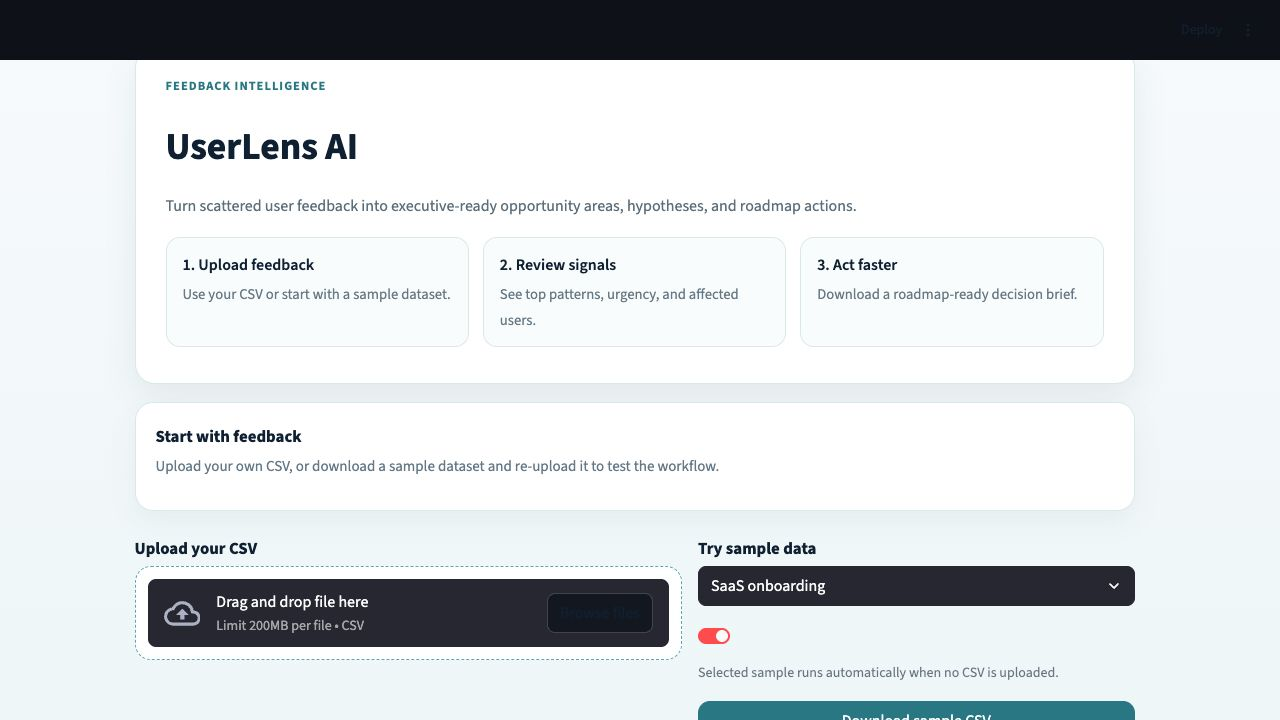
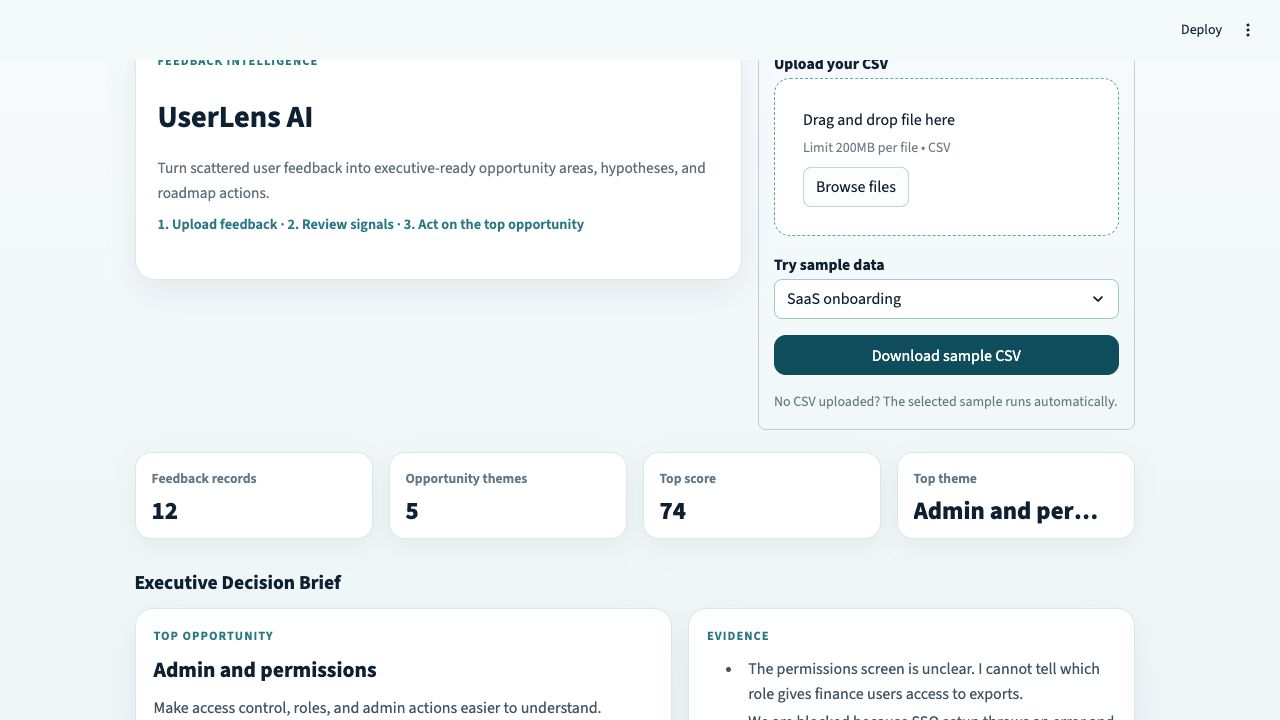
Improve dashboard accessibility and control contrast

diff --git a/app.py b/app.py
@@ -32,7 +32,7 @@ st.markdown(
         color: #102033;
     }
     .block-container {
-        padding-top: 2rem;
+        padding-top: 1.2rem;
         padding-bottom: 3rem;
         max-width: 1160px;
     }
@@ -56,6 +56,47 @@ st.markdown(
         border-radius: 16px;
         padding: 12px;
     }
+    div[data-testid="stFileUploaderDropzone"] {
+        background: #ffffff !important;
+        border: 1.5px dashed #5aa6b1 !important;
+        border-radius: 14px !important;
+    }
+    div[data-testid="stFileUploaderDropzone"] button,
+    div.stButton > button,
+    div.stDownloadButton > button {
+        background: #0f4c5c !important;
+        border: 1px solid #0f4c5c !important;
+        color: #ffffff !important;
+        border-radius: 12px !important;
+        font-weight: 700 !important;
+    }
+    div[data-testid="stFileUploaderDropzone"] button:hover,
+    div.stButton > button:hover,
+    div.stDownloadButton > button:hover {
+        background: #093945;
+        border-color: #093945;
+        color: #ffffff;
+    }
+    div[data-testid="stFileUploaderDropzone"] button:focus,
+    div.stButton > button:focus,
+    div.stDownloadButton > button:focus {
+        outline: 3px solid #8fd3dc;
+        outline-offset: 2px;
+        box-shadow: none;
+    }
+    div[data-testid="stFileUploaderDropzone"] small,
+    div[data-testid="stFileUploaderDropzone"] span,
+    div[data-testid="stFileUploaderDropzone"] p {
+        color: #102033 !important;
+    }
+    div[data-baseweb="select"] > div {
+        background: #ffffff !important;
+        border-color: #9ec9ce !important;
+        color: #102033 !important;
+    }
+    div[data-baseweb="select"] span {
+        color: #102033 !important;
+    }
     h1, h2, h3 {
         letter-spacing: 0;
         color: #102033;
@@ -64,9 +105,10 @@ st.markdown(
         background: #ffffff;
         border: 1px solid #dbe8ea;
         border-radius: 20px;
-        padding: 28px 30px;
+        padding: 16px 22px;
         box-shadow: 0 12px 30px rgba(15, 45, 61, 0.07);
-        margin-bottom: 22px;
+        margin-bottom: 10px;
+        min-height: 245px;
     }
     .eyebrow {
         color: #287782;
@@ -77,63 +119,56 @@ st.markdown(
         margin-bottom: 8px;
     }
     .hero h1 {
-        font-size: 2.35rem;
+        font-size: 1.9rem;
         line-height: 1.12;
-        margin: 0 0 10px;
+        margin: 0 0 6px;
     }
     .hero p {
         color: #5d6f7b;
-        font-size: 1rem;
+        font-size: 0.96rem;
         margin: 0;
         max-width: 720px;
     }
-    .action-strip {
-        display: grid;
-        grid-template-columns: repeat(3, minmax(0, 1fr));
-        gap: 14px;
-        margin: 18px 0 8px;
-    }
-    .action-card {
-        background: #f9fcfc;
-        border: 1px solid #dbe8ea;
-        border-radius: 14px;
-        padding: 14px 16px;
-    }
-    .action-card strong {
-        display: block;
-        color: #102033;
-        margin-bottom: 4px;
-    }
-    .action-card span {
-        color: #667985;
-        font-size: 0.92rem;
+    .mini-flow {
+        color: #287782;
+        font-size: 0.9rem;
+        font-weight: 650;
+        margin-top: 8px;
     }
     .input-panel {
         background: #ffffff;
         border: 1px solid #dbe8ea;
         border-radius: 18px;
-        padding: 20px;
-        margin: -4px 0 24px;
+        padding: 12px 14px;
+        margin: 0;
         box-shadow: 0 10px 26px rgba(15, 45, 61, 0.05);
     }
     .input-heading {
         color: #102033;
-        font-size: 1.05rem;
+        font-size: 0.98rem;
         font-weight: 750;
-        margin-bottom: 4px;
+        margin-bottom: 2px;
     }
     .input-subcopy {
         color: #637786;
-        font-size: 0.94rem;
-        margin-bottom: 12px;
+        font-size: 0.88rem;
+        margin-bottom: 0;
+    }
+    .compact-input {
+        background: #ffffff;
+        border: 1px solid #dbe8ea;
+        border-radius: 18px;
+        padding: 12px 14px;
+        margin: 8px 0 10px;
+        box-shadow: 0 8px 20px rgba(15, 45, 61, 0.05);
     }
     .brief-card {
         background: #ffffff;
         border: 1px solid #dbe8ea;
         border-radius: 18px;
-        padding: 24px;
+        padding: 18px;
         box-shadow: 0 10px 26px rgba(15, 45, 61, 0.06);
-        margin: 4px 0 20px;
+        margin: 0 0 14px;
     }
     .brief-label {
         color: #287782;
@@ -144,7 +179,7 @@ st.markdown(
     }
     .brief-title {
         color: #102033;
-        font-size: 1.55rem;
+        font-size: 1.35rem;
         font-weight: 750;
         margin: 6px 0 8px;
     }
@@ -163,8 +198,8 @@ st.markdown(
         background: #ffffff;
         border: 1px solid #dbe8ea;
         border-radius: 16px;
-        padding: 18px;
-        min-height: 164px;
+        padding: 14px;
+        min-height: 130px;
         box-shadow: 0 8px 22px rgba(15, 45, 61, 0.05);
     }
     .rank {
@@ -195,21 +230,21 @@ st.markdown(
     }
     .section-heading {
         color: #102033;
-        font-size: 1.35rem;
+        font-size: 1.22rem;
         font-weight: 750;
-        margin: 24px 0 12px;
+        margin: 16px 0 10px;
     }
     .metric-grid {
         display: grid;
         grid-template-columns: repeat(4, minmax(0, 1fr));
         gap: 16px;
-        margin: 8px 0 22px;
+        margin: 6px 0 12px;
     }
     .metric-card {
         background: #ffffff;
         border: 1px solid #dbe8ea;
         border-radius: 16px;
-        padding: 18px 20px;
+        padding: 14px 16px;
         box-shadow: 0 8px 24px rgba(15, 45, 61, 0.06);
     }
     .metric-label {
@@ -220,28 +255,14 @@ st.markdown(
     }
     .metric-value {
         color: #102033;
-        font-size: 1.85rem;
+        font-size: 1.55rem;
         font-weight: 780;
         line-height: 1.1;
         white-space: nowrap;
         overflow: hidden;
         text-overflow: ellipsis;
     }
-    div.stDownloadButton > button {
-        border-radius: 12px;
-        border: 1px solid #287782;
-        background: #287782;
-        color: white;
-    }
-    div.stDownloadButton > button:hover {
-        border: 1px solid #1f6570;
-        background: #1f6570;
-        color: white;
-    }
     @media (max-width: 760px) {
-        .action-strip {
-            grid-template-columns: 1fr;
-        }
         .metric-grid {
             grid-template-columns: 1fr 1fr;
         }
@@ -254,65 +275,47 @@ st.markdown(
     unsafe_allow_html=True,
 )
 
-st.markdown(
-    """
-    <div class="hero">
-      <div class="eyebrow">Feedback intelligence</div>
-      <h1>UserLens AI</h1>
-      <p>Turn scattered user feedback into executive-ready opportunity areas, hypotheses, and roadmap actions.</p>
-      <div class="action-strip">
-        <div class="action-card"><strong>1. Upload feedback</strong><span>Use your CSV or start with a sample dataset.</span></div>
-        <div class="action-card"><strong>2. Review signals</strong><span>See top patterns, urgency, and affected users.</span></div>
-        <div class="action-card"><strong>3. Act faster</strong><span>Download a roadmap-ready decision brief.</span></div>
-      </div>
-    </div>
-    """,
-    unsafe_allow_html=True,
-)
-
-st.markdown(
-    """
-    <div class="input-panel">
-      <div class="input-heading">Start with feedback</div>
-      <div class="input-subcopy">Upload your own CSV, or download a sample dataset and re-upload it to test the workflow.</div>
-    </div>
-    """,
-    unsafe_allow_html=True,
-)
-
-upload_col, sample_col = st.columns([1.25, 1])
-with upload_col:
-    st.markdown('<div class="input-heading">Upload your CSV</div>', unsafe_allow_html=True)
-    uploaded = st.file_uploader(
-        "Upload feedback CSV",
-        type=["csv"],
-        label_visibility="collapsed",
-        help="Expected columns: source, user_type, date, feedback",
+top_left, top_right = st.columns([1.6, 1])
+with top_left:
+    st.markdown(
+        """
+        <div class="hero">
+          <div class="eyebrow">Feedback intelligence</div>
+          <h1>UserLens AI</h1>
+          <p>Turn scattered user feedback into executive-ready opportunity areas, hypotheses, and roadmap actions.</p>
+          <div class="mini-flow">1. Upload feedback · 2. Review signals · 3. Act on the top opportunity</div>
+        </div>
+        """,
+        unsafe_allow_html=True,
     )
 
-with sample_col:
-    st.markdown('<div class="input-heading">Try sample data</div>', unsafe_allow_html=True)
-    sample_name = st.selectbox("Sample dataset", list(SAMPLES.keys()), label_visibility="collapsed")
-    use_sample = st.toggle("Use selected sample if no file is uploaded", value=True, label_visibility="collapsed")
-    st.caption("Selected sample runs automatically when no CSV is uploaded.")
-    sample_path = SAMPLES[sample_name]
-    st.download_button(
-        "Download sample CSV",
-        sample_path.read_text(encoding="utf-8"),
-        file_name=sample_path.name,
-        mime="text/csv",
-        width="stretch",
-    )
-    st.caption("MVP method: deterministic taxonomy + scoring. No LLM API key required.")
+with top_right:
+    with st.container(border=True):
+        st.markdown('<div class="input-heading">Upload your CSV</div>', unsafe_allow_html=True)
+        uploaded = st.file_uploader(
+            "Upload feedback CSV",
+            type=["csv"],
+            label_visibility="collapsed",
+            help="Expected columns: source, user_type, date, feedback",
+        )
+        st.markdown('<div class="input-heading">Try sample data</div>', unsafe_allow_html=True)
+        sample_name = st.selectbox("Sample dataset", list(SAMPLES.keys()), label_visibility="collapsed")
+        sample_path = SAMPLES[sample_name]
+        st.download_button(
+            "Download sample CSV",
+            sample_path.read_text(encoding="utf-8"),
+            file_name=sample_path.name,
+            mime="text/csv",
+            width="stretch",
+        )
+        st.caption("No CSV uploaded? The selected sample runs automatically.")
 
 
 def load_records():
     if uploaded is not None:
         text = uploaded.getvalue().decode("utf-8")
         return load_feedback_csv(io.StringIO(text))
-    if use_sample:
-        return load_feedback_csv(SAMPLES[sample_name])
-    return []
+    return load_feedback_csv(SAMPLES[sample_name])
 
 
 records = load_records()
